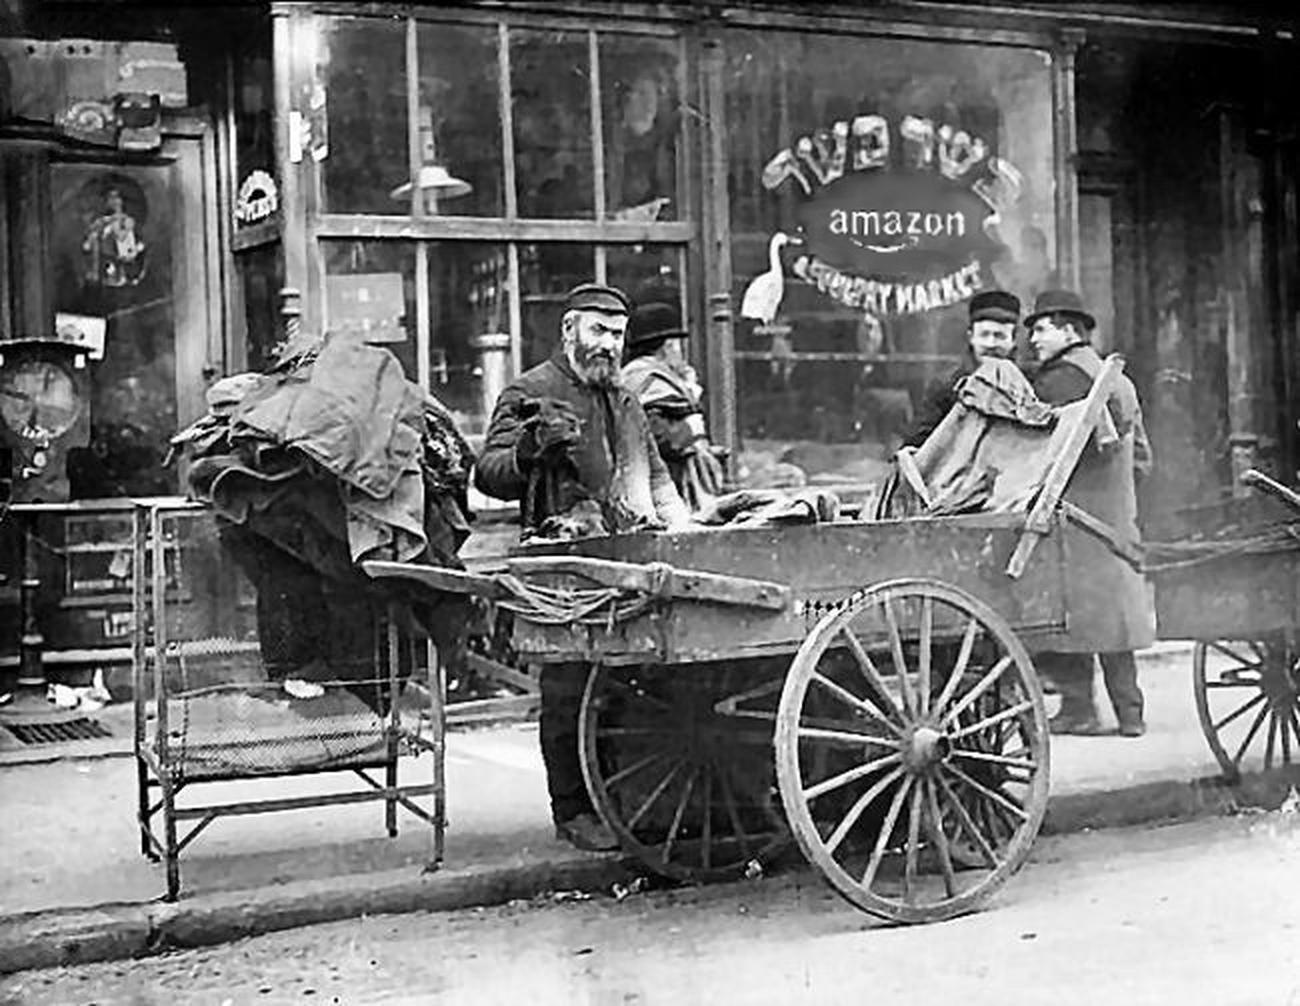
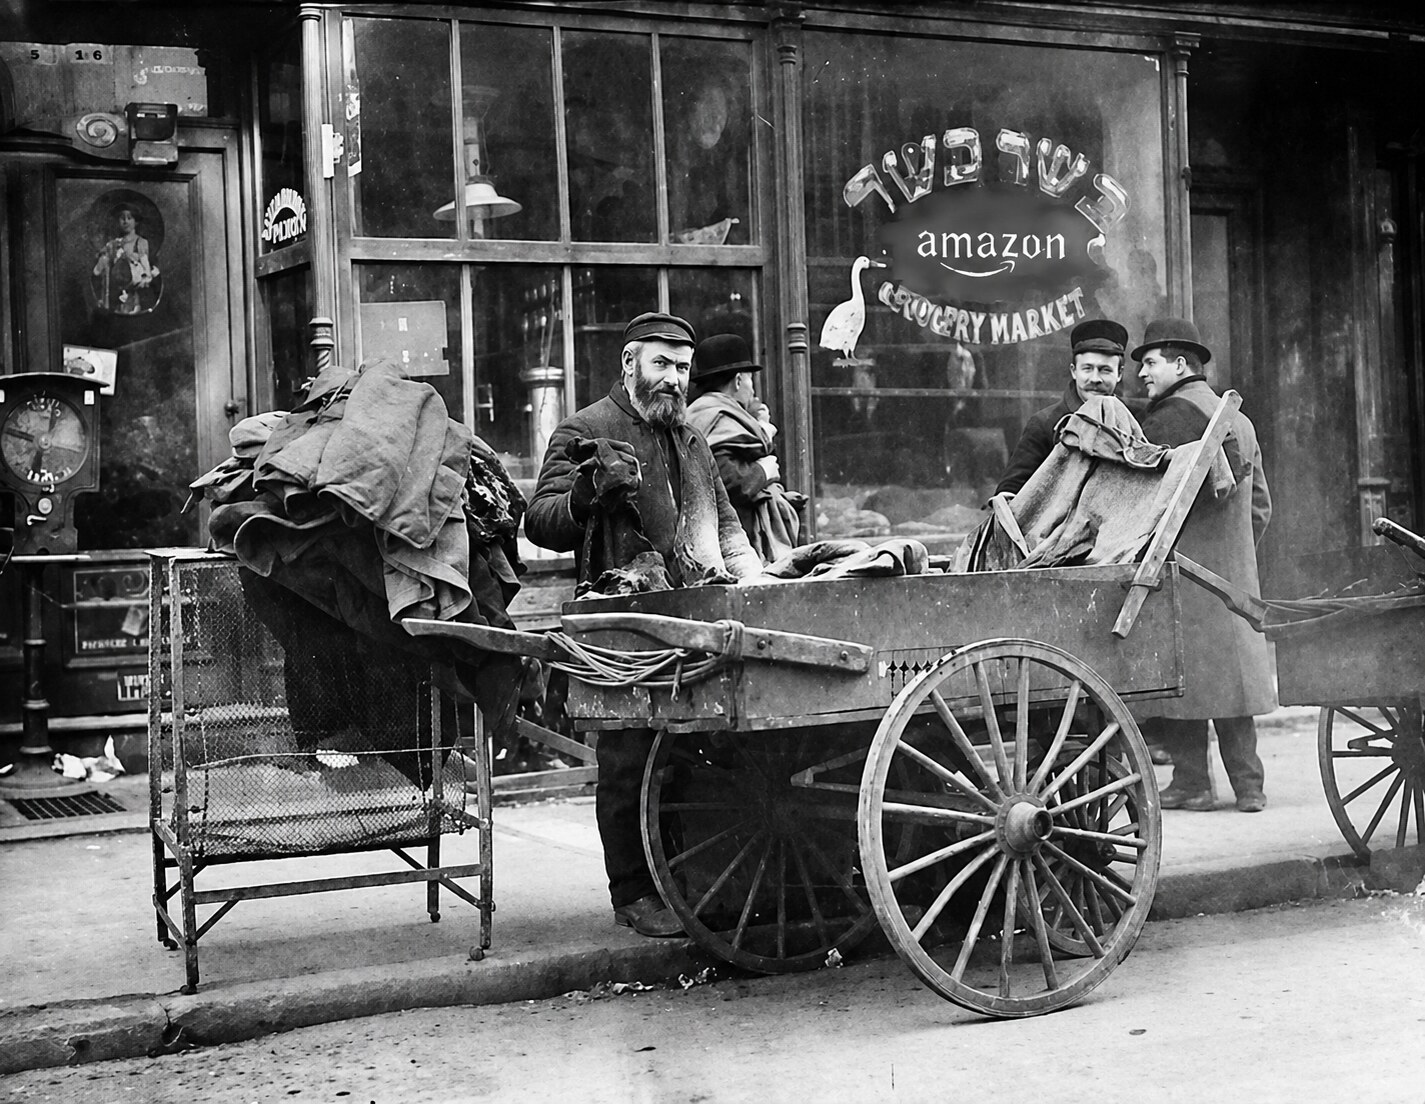
Update image location and resolution

diff --git a/README.md b/README.md
@@ -6,7 +6,7 @@ Peddler is automatically generated from the latest Open API models provided by A
 
 Peddler covers all SP-API endpoints, reports, notifications, and feeds. It's also lightweight: thanks to Zeitwerk, only the code you use gets loaded.
 
-<img src="https://github.com/hakanensari/peddler/blob/main/images/peddler.jpg?raw=true" alt="Peddler" style="max-width: 830px" />
+<img src="https://github.com/lineofflight/peddler/blob/main/images/peddler.jpg?raw=true" alt="Peddler" style="max-width: 830px" />
 
 ## Installation
 
